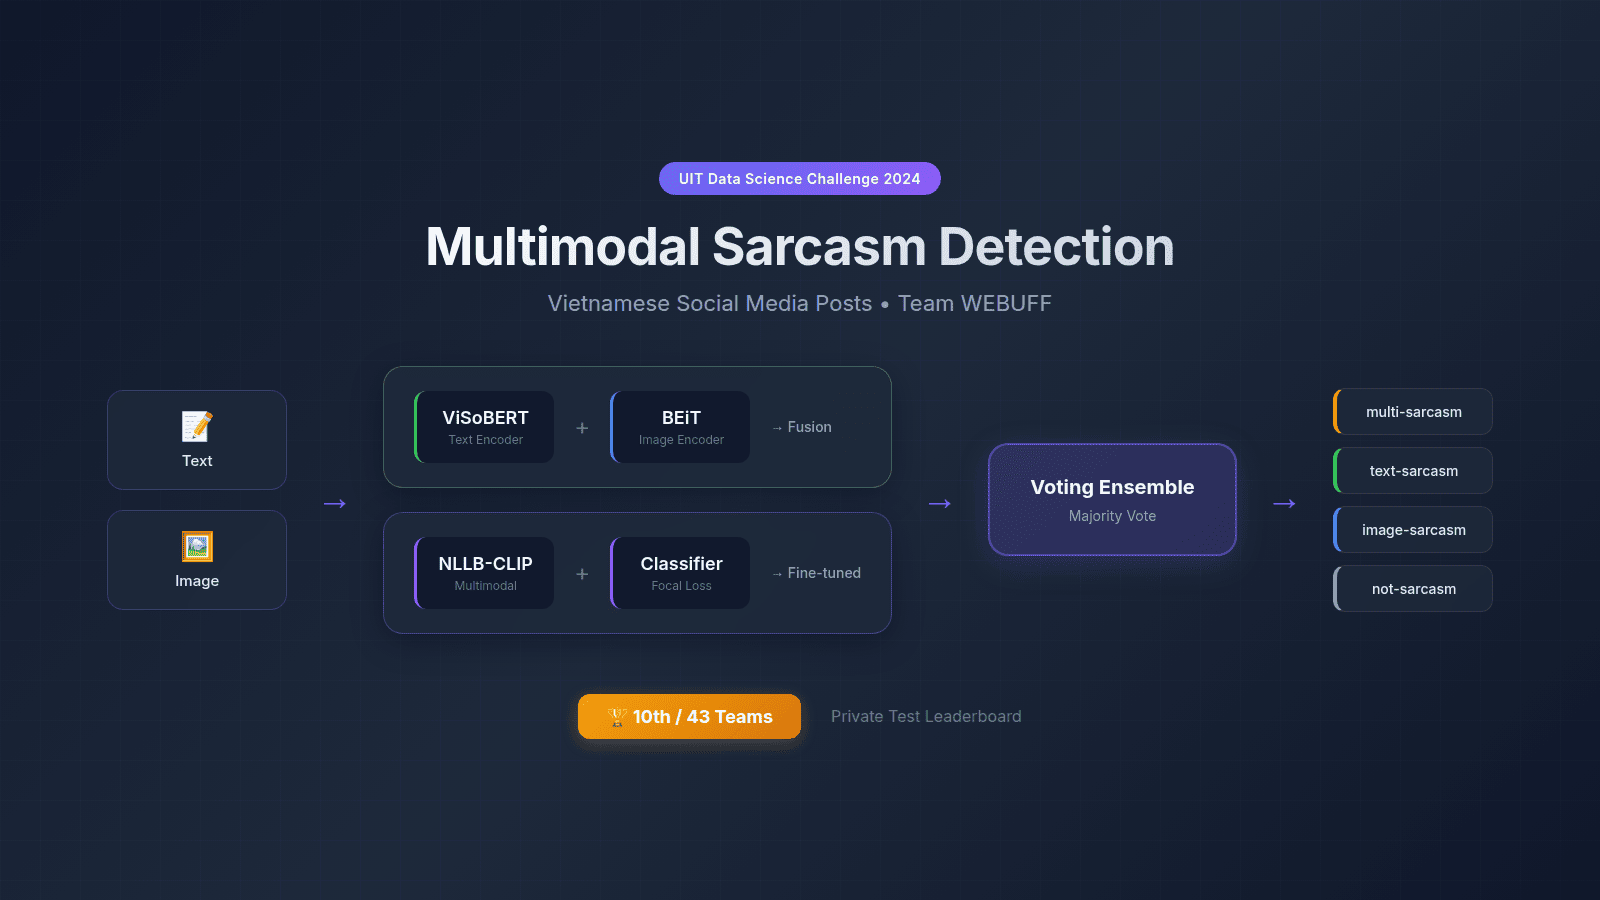
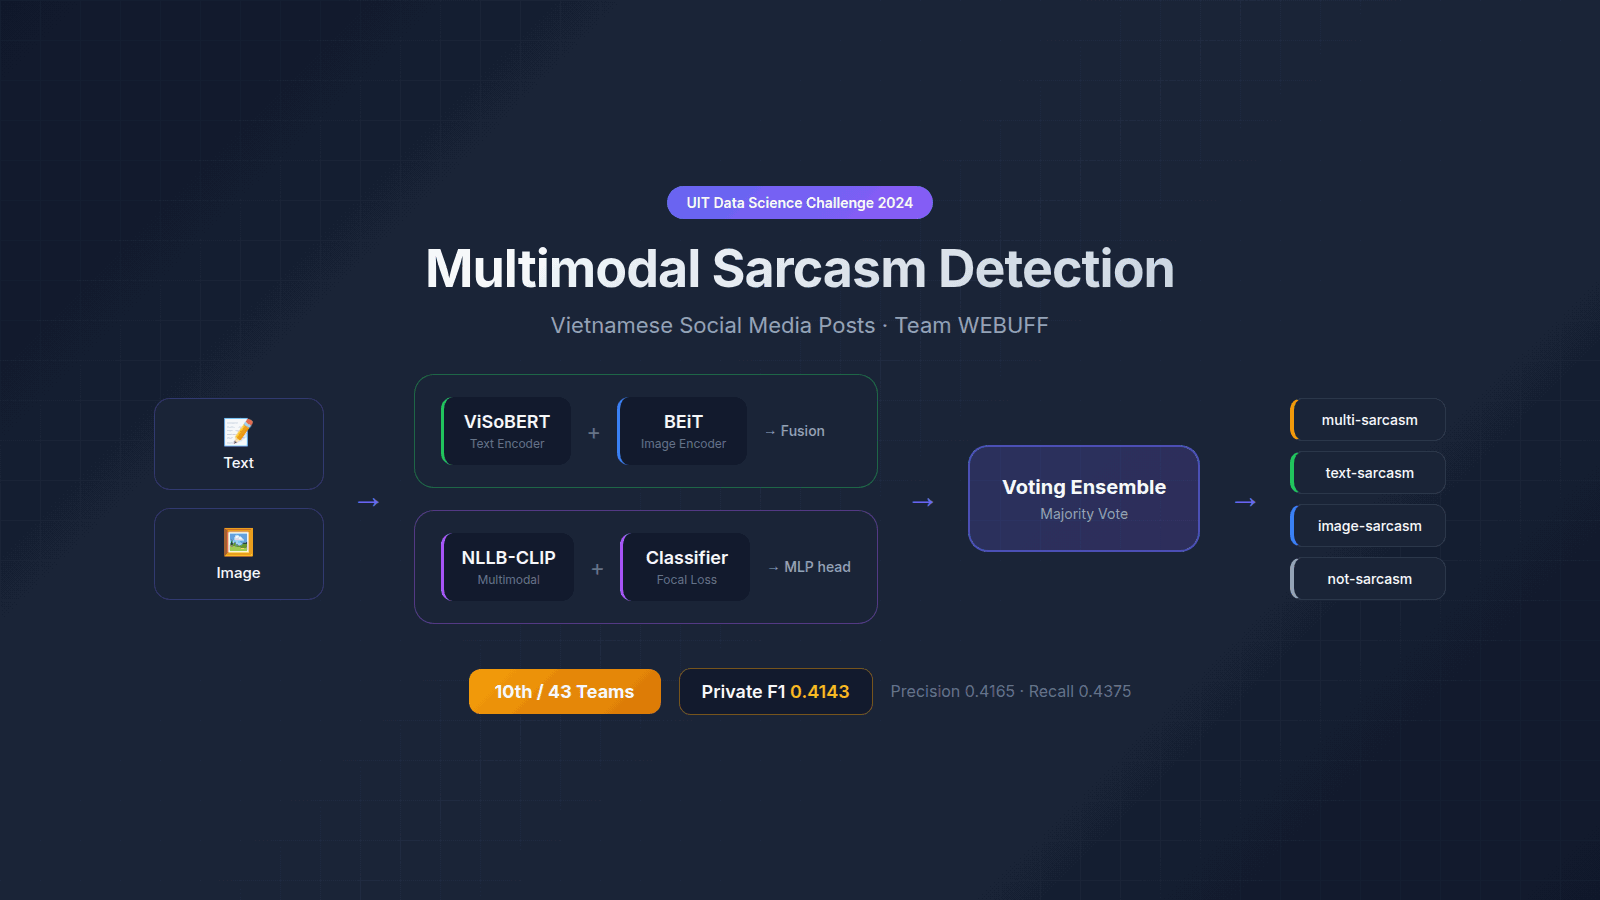
docs: add WEBUFF private leaderboard scores
Record the Group B private-test row: F1 0.4143 (10th), precision 0.4165, recall 0.4375, and show the same scores on the portfolio card.

diff --git a/README.md b/README.md
@@ -8,8 +8,8 @@ Detect sarcasm in Vietnamese posts where the signal may appear in **text**, **im
 | | |
 |---|---|
 | **Task** | 4-way multimodal classification |
-| **Competition** | UIT Data Science Challenge 2024 (ViMMSD-style sarcasm track) |
-| **Private leaderboard** | **10th of 43 teams** |
+| **Competition** | UIT Data Science Challenge 2024, Group B (ViMMSD) |
+| **Private leaderboard** | **10th of 43 teams** · **F1 0.4143** |
 
 ---
 
@@ -97,11 +97,17 @@ Loads per-model private-test JSON files (`visobertbeit.json`, `clip.json`, `clip
 
 ## Results
 
-| Metric | Value |
-|--------|-------|
-| **Private test rank** | **10 / 43** (UIT DSC 2024) |
+Private leaderboard, UIT Data Science Challenge 2024 Group B (team **WEBUFF**, 3 submissions, last on 11 Nov 2024). The track ranks teams by **F1**. The number in parentheses is the rank on that metric.
 
-No official accuracy or F1 scores are checked into this repository; dev-set `classification_report` cells in the notebooks were not saved with executed outputs. Leaderboard rank is the verified competition result.
+| Metric | Score | Rank on that metric |
+|--------|------:|--------------------:|
+| **F1** (ranking metric) | **0.4143** | **10** |
+| Precision | 0.4165 | 15 |
+| Recall | 0.4375 | 16 |
+
+Overall place: **10th of 43 teams**.
+
+Dev-set `classification_report` cells in the notebooks were not saved with outputs, so there is no separate local accuracy or per-class F1 in the repo. The table above is the competition leaderboard row.
 
 ---
 
